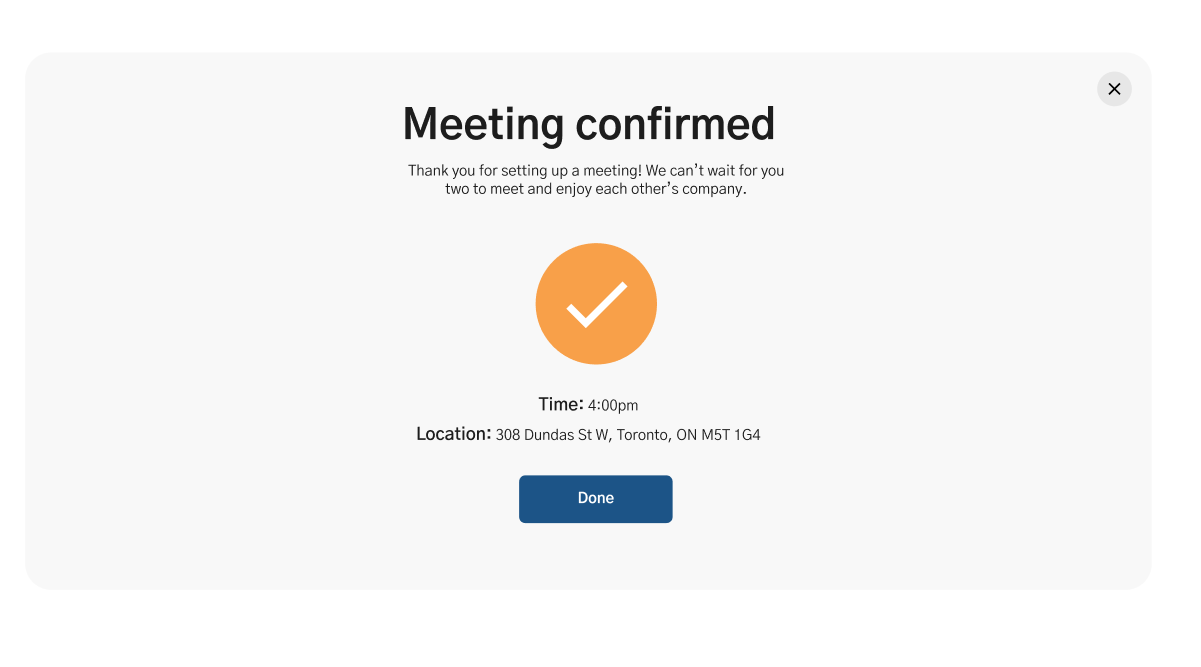
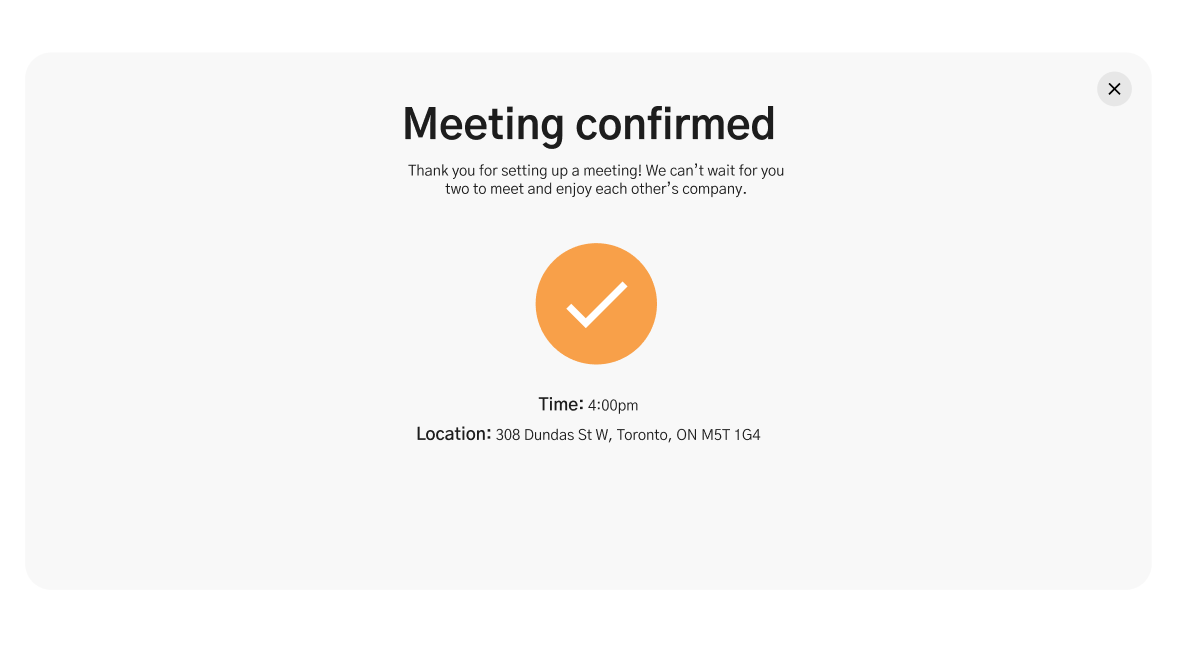
final commit

Changed region(s): [[0.4313, 0.6897, 0.5853, 0.8096]]

diff --git a/src/fakedatabase/dist/dogs.dev.js b/src/fakedatabase/dist/dogs.dev.js
@@ -34,8 +34,8 @@ var dogs = [{
   id: "4223",
   pic: _Cleo["default"],
   personality: ["Outgoing", "Curious"],
-  loc: "placeholder",
-  company: "placeholder"
+  loc: "Pyramids of Giza",
+  company: "Giza.Cleo"
 }, {
   name: "Doof",
   breed: "Chihuhua",
@@ -43,8 +43,8 @@ var dogs = [{
   pic: _DrDoof["default"],
   id: "9382",
   personality: ["Outgoing", "Adventurous"],
-  loc: "placeholder",
-  company: "placeholder"
+  loc: "City (location kept secret)",
+  company: "Doofenshmirtz Inc"
 }, {
   name: "Alaska",
   breed: "Siberian Husky",
@@ -52,17 +52,17 @@ var dogs = [{
   pic: _Alaska["default"],
   id: "3323",
   personality: ["Shy", "Gentle"],
-  loc: "placeholder",
-  company: "placeholder"
+  loc: "Near the Northern Lights",
+  company: "Royal Canine"
 }, {
   name: "Drip",
   breed: "Golden retriever",
-  desc: "Your perfect candidate for a high school baseball mascot. If your house isn't made of supreme bricks don't talk to me PEASANT",
+  desc: "Your perfect candidate for a high school baseball team mascot. If your house isn't made of supreme bricks don't talk to me PEASANT",
   pic: _Drip["default"],
   personality: ["Sporty", "Laidback"],
   id: "8273",
-  loc: "placeholder",
-  company: "placeholder"
+  loc: "Malibu",
+  company: "Supreme"
 }, {
   name: "Doge",
   breed: "Shiba Inu",
@@ -70,8 +70,8 @@ var dogs = [{
   pic: _Doge["default"],
   id: "4942",
   personality: ["Outgoing", "Curious"],
-  loc: "placeholder",
-  company: "placeholder"
+  loc: "Internet Land",
+  company: "Youtube"
 }, {
   name: "Starbucks Boy",
   breed: "A hybrid of Beagle and Husky",
@@ -79,8 +79,8 @@ var dogs = [{
   desc: "Clearly got more money than us. Elite. Also skilled enough to lick your entire face till you become mushy.",
   personality: ["Reserved", "Laidback"],
   id: "3423",
-  loc: "placeholder",
-  company: "placeholder"
+  loc: "New Bork",
+  company: "Borkbucks"
 }, {
   name: "Calvin",
   breed: "Golden retriever",
@@ -88,8 +88,8 @@ var dogs = [{
   desc: "Not the brand ambassador of Calvin and Klein,yet a lady's man. After all how could one not smother that cute face with kissess.",
   personality: ["Loving", "Adventurous"],
   id: "2851",
-  loc: "placeholder",
-  company: "placeholder"
+  loc: "Atlantis",
+  company: "Krusty Krab"
 }, {
   name: "Tobi",
   breed: "Shih Tzu",
@@ -97,8 +97,8 @@ var dogs = [{
   personality: ["Reserved"],
   id: "7244",
   pic: _Tobi["default"],
-  loc: "placeholder",
-  company: "placeholder"
+  loc: "Tobi Nation",
+  company: "Royal Canine"
 }, {
   name: "Marly",
   breed: "Indie",
@@ -106,8 +106,8 @@ var dogs = [{
   desc: " This Caramel brown pup is bound to bring a smile to your face with her antics ",
   id: "1221",
   pic: _Marly["default"],
-  loc: "placeholder",
-  company: "placeholder"
+  loc: "Maldives",
+  company: "Waterfilteration.inc"
 }, {
   name: "Pom & Rom",
   breed: "Pomeranian",
@@ -115,8 +115,8 @@ var dogs = [{
   desc: "Little fluffy furballs, perfect for cuddling and increasing your dopamine levels!",
   id: "2321",
   pic: _Pom["default"],
-  loc: "placeholder",
-  company: "placeholder"
+  loc: "Pom Pom Island",
+  company: "Krusty Krab"
 }];
 var _default = dogs;
 exports["default"] = _default;

diff --git a/src/fakedatabase/dogs.js b/src/fakedatabase/dogs.js
@@ -17,8 +17,8 @@ const dogs = [
     id: "4223",
     pic: cleo,
     personality: ["Outgoing", "Curious"],
-    loc: "placeholder",
-    company: "placeholder",
+    loc: "Pyramids of Giza",
+    company: "Giza.Cleo",
   },
   {
     name: "Doof",
@@ -27,8 +27,8 @@ const dogs = [
     pic: doof,
     id: "9382",
     personality: ["Outgoing", "Adventurous"],
-    loc: "placeholder",
-    company: "placeholder",
+    loc: "City (location kept secret)",
+    company: "Doofenshmirtz Inc",
   },
   {
     name: "Alaska",
@@ -37,18 +37,18 @@ const dogs = [
     pic: alaska,
     id: "3323",
     personality: ["Shy", "Gentle"],
-    loc: "placeholder",
-    company: "placeholder",
+    loc: "Near the Northern Lights",
+    company: "Royal Canine",
   },
   {
     name: "Drip",
     breed: "Golden retriever",
-    desc: "Your perfect candidate for a high school baseball mascot. If your house isn't made of supreme bricks don't talk to me PEASANT",
+    desc: "Your perfect candidate for a high school baseball team mascot. If your house isn't made of supreme bricks don't talk to me PEASANT",
     pic: drip,
     personality: ["Sporty", "Laidback"],
     id: "8273",
-    loc: "placeholder",
-    company: "placeholder",
+    loc: "Malibu",
+    company: "Supreme",
   },
   {
     name: "Doge",
@@ -57,8 +57,8 @@ const dogs = [
     pic: doge,
     id: "4942",
     personality: ["Outgoing", "Curious"],
-    loc: "placeholder",
-    company: "placeholder",
+    loc: "Internet Land",
+    company: "Youtube",
   },
   {
     name: "Starbucks Boy",
@@ -67,8 +67,8 @@ const dogs = [
     desc: "Clearly got more money than us. Elite. Also skilled enough to lick your entire face till you become mushy.",
     personality: ["Reserved", "Laidback"],
     id: "3423",
-    loc: "placeholder",
-    company: "placeholder",
+    loc: "New Bork",
+    company: "Borkbucks",
   },
   {
     name: "Calvin",
@@ -77,8 +77,8 @@ const dogs = [
     desc: "Not the brand ambassador of Calvin and Klein,yet a lady's man. After all how could one not smother that cute face with kissess.",
     personality: ["Loving", "Adventurous"],
     id: "2851",
-    loc: "placeholder",
-    company: "placeholder",
+    loc: "Atlantis",
+    company: "Krusty Krab",
   },
   {
     name: "Tobi",
@@ -87,8 +87,8 @@ const dogs = [
     personality: ["Reserved"],
     id: "7244",
     pic: tobi,
-    loc: "placeholder",
-    company: "placeholder",
+    loc: "Tobi Nation",
+    company: "Royal Canine",
   },
   {
     name: "Marly",
@@ -97,8 +97,8 @@ const dogs = [
     desc: " This Caramel brown pup is bound to bring a smile to your face with her antics ",
     id: "1221",
     pic: marly,
-    loc: "placeholder",
-    company: "placeholder",
+    loc: "Maldives",
+    company: "Waterfilteration.inc",
   },
   {
     name: "Pom & Rom",
@@ -107,8 +107,8 @@ const dogs = [
     desc: "Little fluffy furballs, perfect for cuddling and increasing your dopamine levels!",
     id: "2321",
     pic: pom,
-    loc: "placeholder",
-    company: "placeholder",
+    loc: "Pom Pom Island",
+    company: "Krusty Krab",
   },
 ];
 

diff --git a/src/styles/profile.scss b/src/styles/profile.scss
@@ -35,12 +35,18 @@
     top: 1.6em;
     right: 0;
     display: flex;
+
     i {
-      color: $orange;
+      color: black;
       padding: 0.6em;
-      background-color: rgba($gray, 0.3);
+      background-color: rgba($gray, 0.5);
       border-radius: 10px;
       margin-inline: 1em;
+      transition: all ease-in-out 350ms;
+      &:hover {
+        background-color: rgba($gray, 0.7);
+        color: white;
+      }
     }
 
     div {
@@ -59,10 +65,10 @@
     font-weight: bold;
     &::after {
       content: "";
-      width: 65%;
+      width: 69%;
       border-bottom: solid 1px gray;
       position: absolute;
-      right: 2.1em;
+      right: 1.2em;
       bottom: 7em;
       margin-right: 1em;
       z-index: 1;

diff --git a/src/styles/dist/profile.css b/src/styles/dist/profile.css
@@ -36,11 +36,16 @@
   display: flex;
 }
 .profile .buttons i {
-  color: #fd8c73;
+  color: black;
   padding: 0.6em;
-  background-color: rgba(115, 115, 115, 0.3);
+  background-color: rgba(115, 115, 115, 0.5);
   border-radius: 10px;
   margin-inline: 1em;
+  transition: all ease-in-out 350ms;
+}
+.profile .buttons i:hover {
+  background-color: rgba(115, 115, 115, 0.7);
+  color: white;
 }
 .profile .buttons div {
   background-color: rgba(253, 140, 115, 0.7);
@@ -58,10 +63,10 @@
 }
 .profile .loc > span::after {
   content: "";
-  width: 65%;
+  width: 69%;
   border-bottom: solid 1px gray;
   position: absolute;
-  right: 2.1em;
+  right: 1.2em;
   bottom: 7em;
   margin-right: 1em;
   z-index: 1;

diff --git a/src/styles/dist/home.css b/src/styles/dist/home.css
@@ -4,7 +4,22 @@
   align-content: center;
   justify-content: center;
   height: 80vh;
+  position: relative;
 }
 .meeting img {
   margin-top: 2em;
+}
+.meeting button {
+  position: absolute;
+  padding-block: 0.7em;
+  padding-inline: 3.5em;
+  border-radius: 8px;
+  color: white;
+  background-color: rgba(28, 84, 135, 0.7);
+  top: 31.5em;
+  right: 48em;
+  transition: all 350ms ease-in-out;
+}
+.meeting button:hover {
+  background-color: #1c5487;
 }

diff --git a/src/styles/dist/dashboard.css b/src/styles/dist/dashboard.css
@@ -33,14 +33,15 @@
   margin: 0.5em;
 }
 .dashboard__nav i {
-  background-color: rgba(115, 115, 115, 0.2);
+  background-color: rgba(115, 115, 115, 0.3);
   padding: 0.75em;
   border-radius: 50px;
   margin: 0.5em;
   transition: all 350ms ease-out;
 }
 .dashboard__nav i:hover {
-  background-color: rgba(115, 115, 115, 0.3);
+  background-color: rgba(115, 115, 115, 0.5);
+  color: white;
 }
 .dashboard__nav div {
   display: flex;

diff --git a/src/styles/home.scss b/src/styles/home.scss
@@ -8,4 +8,19 @@
   img {
     margin-top: 2em;
   }
+  position: relative;
+  button {
+    position: absolute;
+    padding-block: 0.7em;
+    padding-inline: 3.5em;
+    border-radius: 8px;
+    color: white;
+    background-color: rgba($blue, 0.7);
+    top: 31.5em;
+    right: 48em;
+    transition: all 350ms ease-in-out;
+    &:hover {
+      background-color: rgba($blue, 1);
+    }
+  }
 }

diff --git a/src/styles/dashboard.scss b/src/styles/dashboard.scss
@@ -34,13 +34,14 @@
     }
 
     i {
-      background-color: rgba($gray, 0.2);
+      background-color: rgba($gray, 0.3);
       padding: 0.75em;
       border-radius: 50px;
       margin: 0.5em;
       transition: all 350ms ease-out;
       &:hover {
-        background-color: rgba($gray, 0.3);
+        background-color: rgba($gray, 0.5);
+        color: white;
       }
     }
 

diff --git a/src/components/meeting.jsx b/src/components/meeting.jsx
@@ -1,9 +1,13 @@
 import meeting from "../assets/confirm-meeting.png";
+import { Link } from "react-router-dom";
 
 const Meeting = () => {
   return (
     <div className="meeting">
       <img src={meeting} />
+      <Link to="/dashboard">
+        <button>Done</button>
+      </Link>
     </div>
   );
 };
